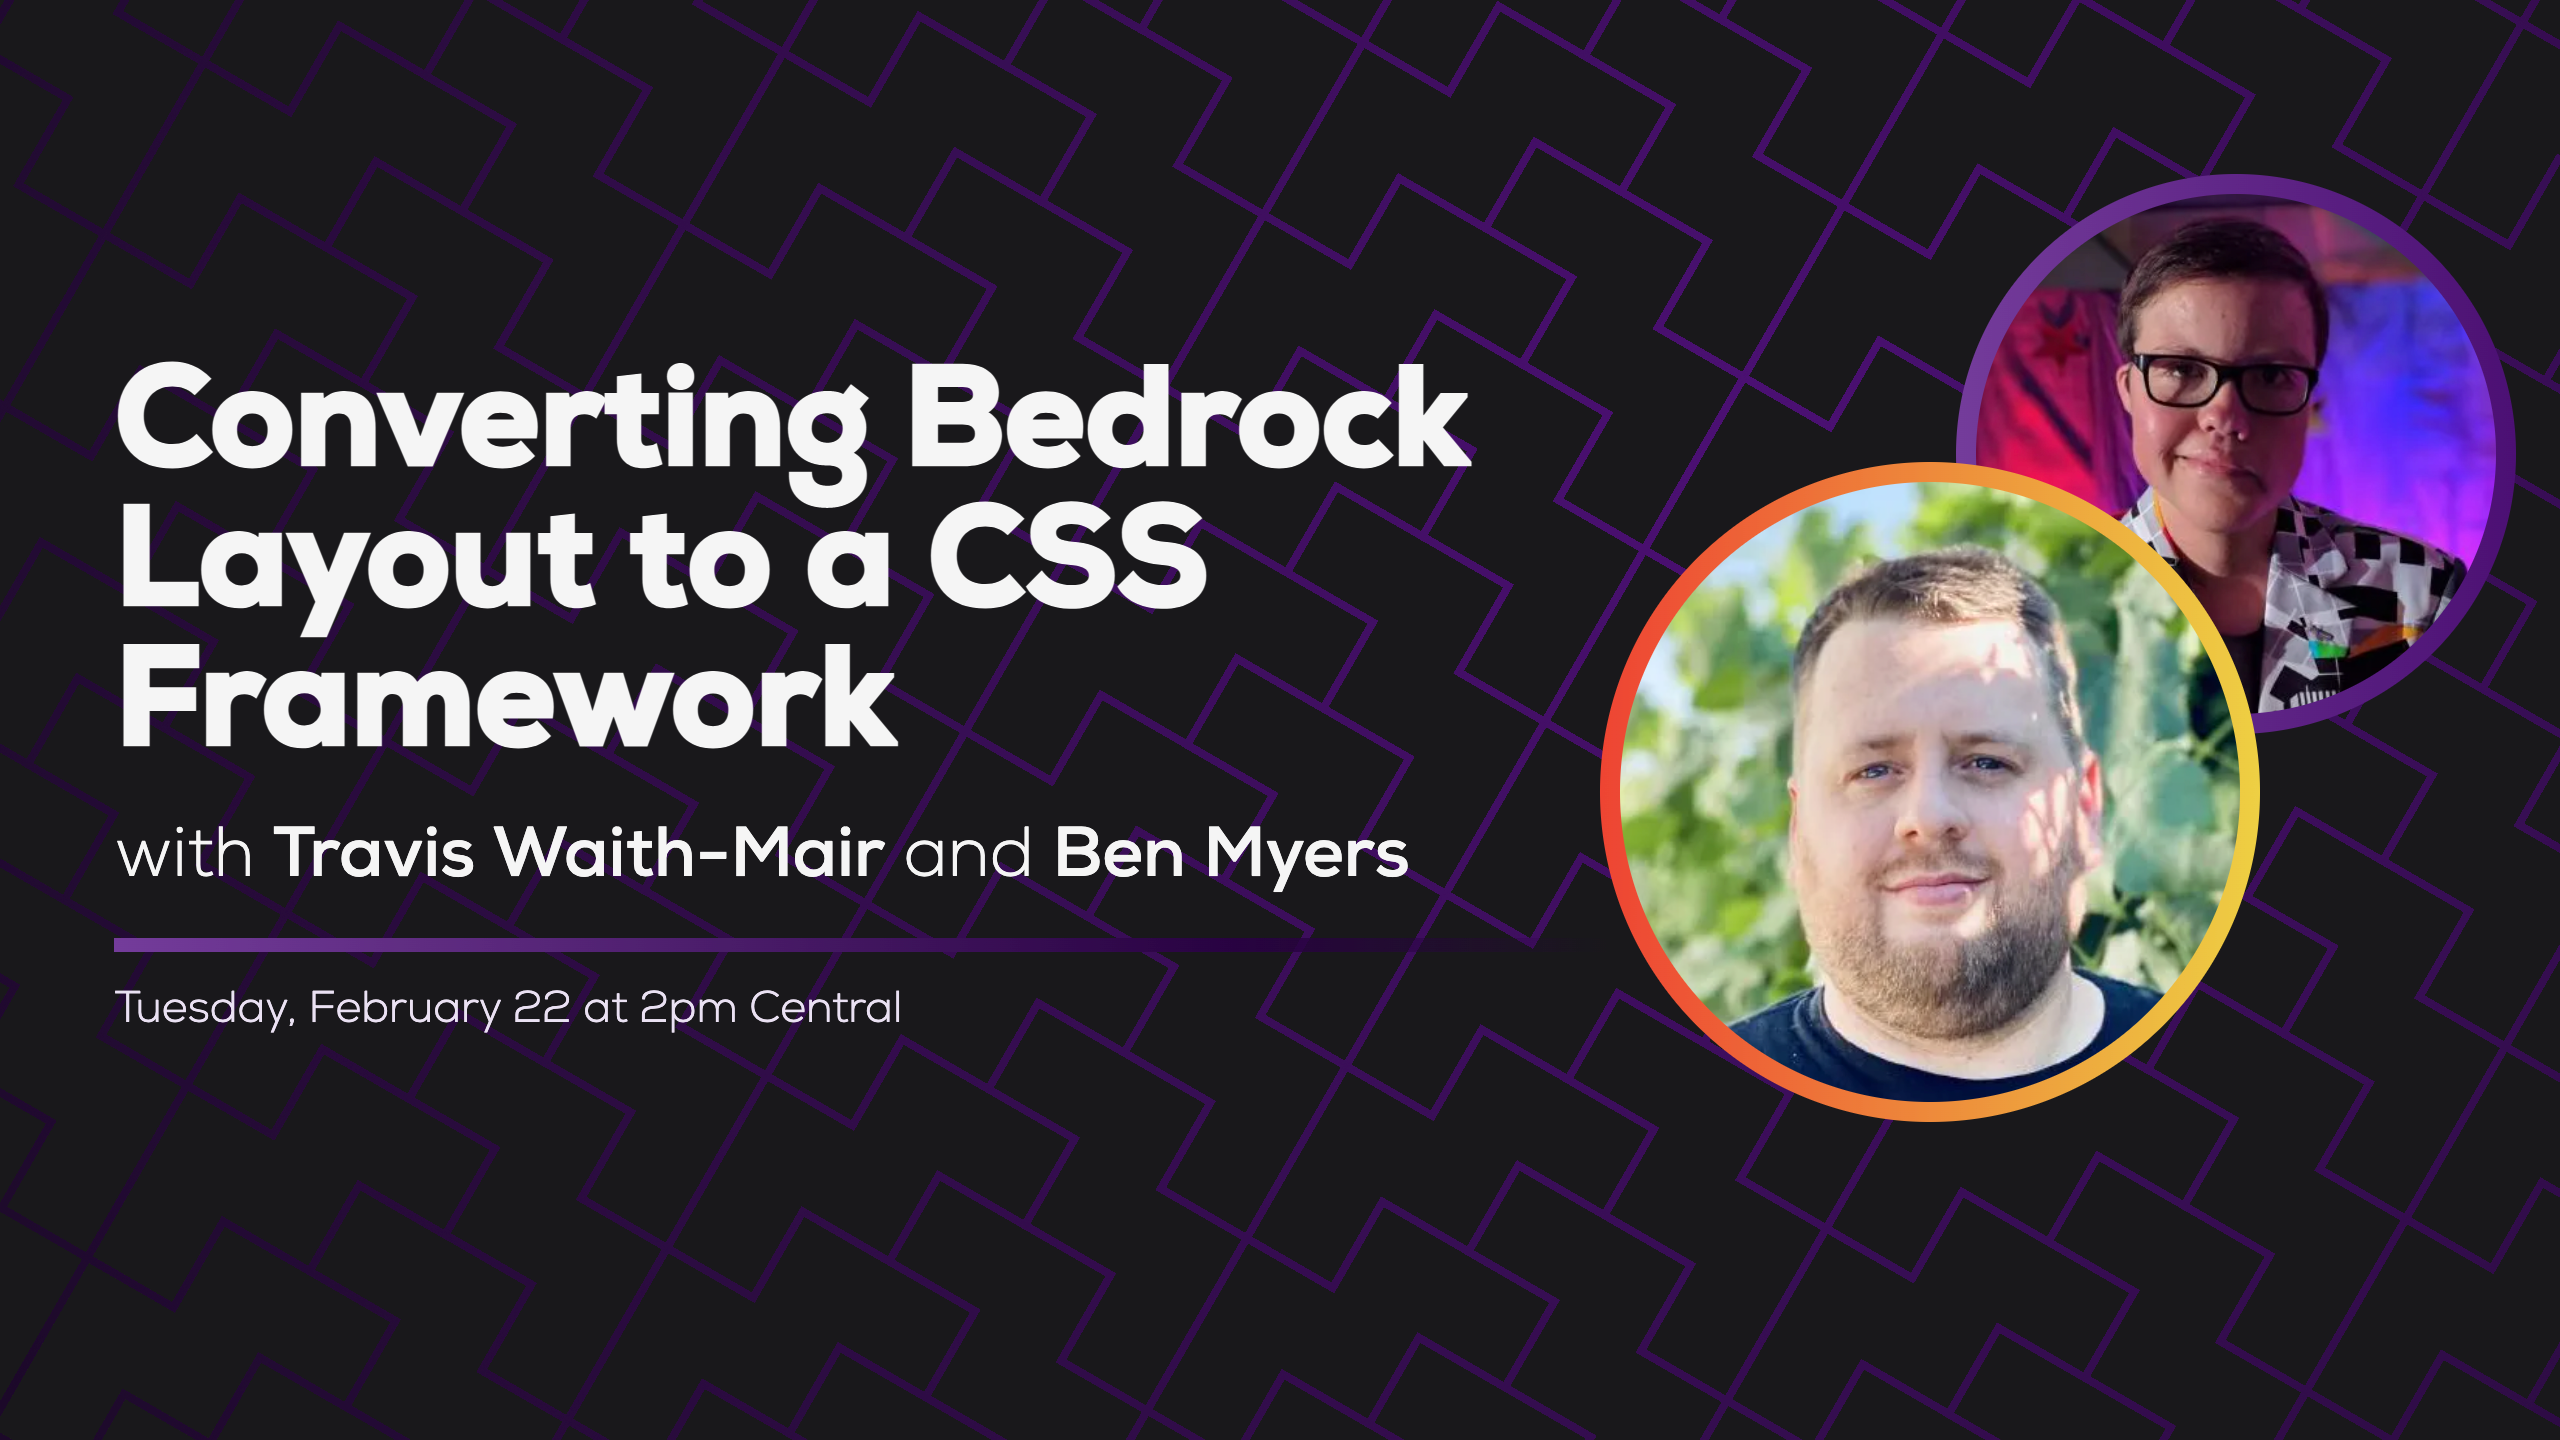
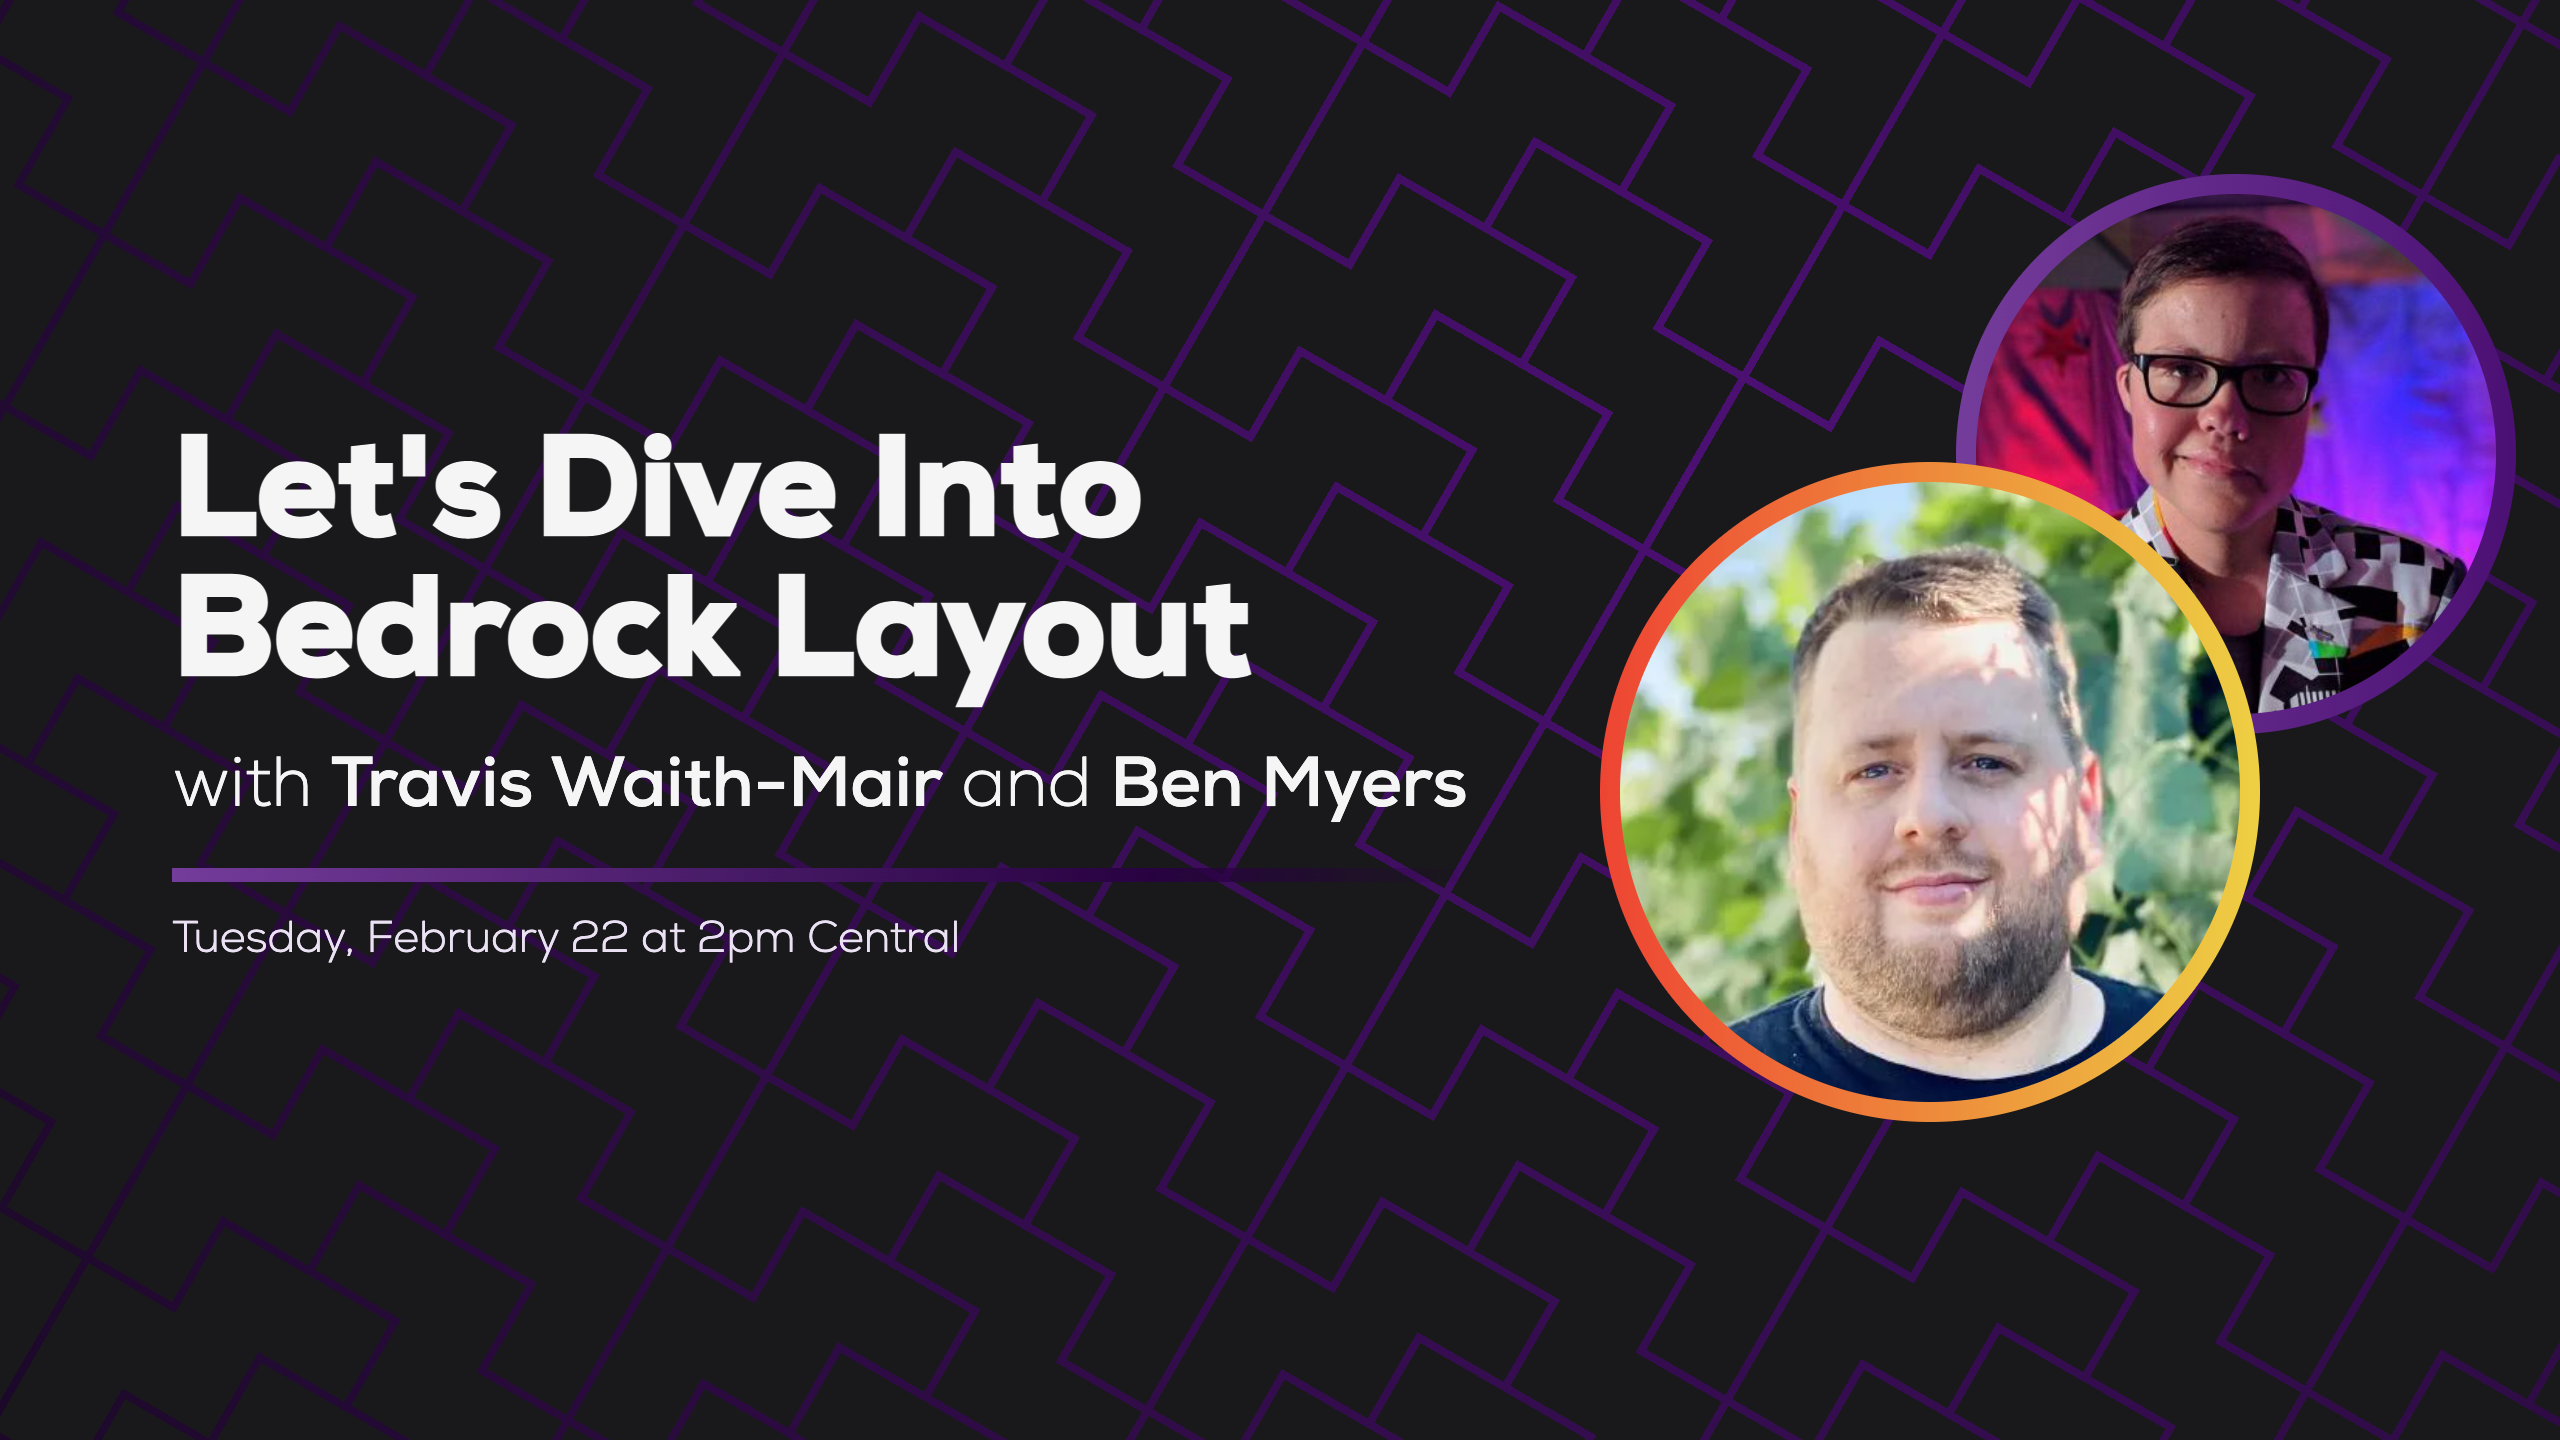
Update Travis's page

Changed region(s): [[0.0312, 0.25, 0.5938, 0.7188]]

diff --git a/src/thumbnail.html b/src/thumbnail.html
@@ -31,7 +31,7 @@
 			place-content: center;
 
 			margin-left: -60px;
-			margin-right: -40px;
+			/* margin-right: -40px; */
 		}
 
 		header h1 {
@@ -136,12 +136,12 @@
 <body>
 	<div class="flex">
 		<header>
-			<h1>JavaScript Problems,<br/>CSS Solutions</h1>
-			<p id="hosts">with <b>Amit Sheen</b> and <b>Ben Myers</b></p>
-			<footer>Tuesday, March 15 at 2pm Central</footer>
+			<h1>Dive Into<br/>Bedrock Layout</h1>
+			<p id="hosts">with <b>Travis Waith-Mair</b> and <b>Ben Myers</b></p>
+			<footer>Tuesday, February 22 at 2pm Central</footer>
 		</header>
 		<main>
-			<img id="avatar-1" src="{{ 'Amit Sheen' | avatar }}" alt="" />
+			<img id="avatar-1" src="{{ 'Travis Waith-Mair' | avatar }}" alt="" />
 			<div class="ring"></div>
 			<img id="avatar-2" src="{{ 'Ben Myers' | avatar }}" alt="" />
 			<div class="ring"></div>

diff --git a/src/streams/streams.11tydata.js b/src/streams/streams.11tydata.js
@@ -20,7 +20,7 @@ function formatTimeOfDay(prettyTimeOfDay) {
  * @returns {string} UTC timestamp for stream
  */
 function formatIsoDate(date, time) {
-	console.log('iso', {date, time})
+	// console.log('iso', {date, time})
 	if (!date || !time) return;
 
 	const [weekday, month, day, year] = date.split(' ');
@@ -42,7 +42,7 @@ function formatIsoDate(date, time) {
  * @returns {boolean} `true` if stream is in the future; `false` otherwise
  */
 function isUpcoming(date, time) {
-	console.log({date, time})
+	// console.log({date, time})
 	if (!date || !time) return;
 
 	const utc = formatIsoDate(date, time);
